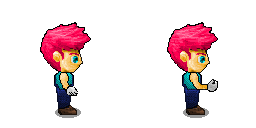
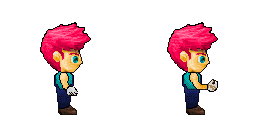
assets: pipeline de re-paleta + bordas (coesão) [1/2]
tools/repalette.mjs (usa o Chromium do playwright como codec PNG, sem deps):
extrai uma paleta compartilhada de todos os sheets e, nos outliers (personagem
+ itens), faz snap pra paleta + endurece a borda (tira o anti-aliasing pintado)
→ aproxima do pixel-art dos cultivos/tiles, sem mudar dimensões nem o atlas.
Remove o fundo "queimado" do item_bag e reduz o logo (3464px → ≤512px).

Cultivos/tiles (o estilo-alvo) ficam intactos. docs/ART_REVIEW.md documenta o
diagnóstico (paleta/dimensão/contraste) e o plano. Assets processados incluídos.

Validado: jogo renderiza sem erro, e2e default e load de assets ok.

diff --git a/docs/ART_REVIEW.md b/docs/ART_REVIEW.md
@@ -1,0 +1,38 @@
+# Revisão de assets — coesão
+
+Diagnóstico (jun/2026) e plano pra deixar a arte coesa em paleta, dimensão e
+contraste.
+
+## Diagnóstico
+Três estilos de renderização conviviam:
+- **Cultivos + tiles** (grama/terra/cerca): pixel art nítido, paleta limitada, ~32px. **É o estilo-alvo.**
+- **Personagem**: sprite suave/anti-aliased (~57–97px), sombra em gradiente — destoa.
+- **Itens** (pá/balde/saco/sementes): cartoon semi-realista, 64–82px — destoa; `item_bag` tinha fundo escuro "queimado" (não transparente).
+- `ui_logo.png` era 3464×3464 (~500 KB).
+
+Eixos do problema: **dimensão** (texel inconsistente por reescala em fatores
+diferentes), **paleta** (sem rampa-mestra; cada asset de um pacote) e
+**contraste** (verde-sobre-verde; fundo do saco).
+
+## Pipeline de re-paleta (`tools/repalette.mjs`)
+Usa o Chromium do playwright só como decodificador/codificador PNG (sem novas deps).
+- Extrai uma **paleta compartilhada** (64 cores) de **todos** os sheets, então
+  as cores próprias do personagem/itens (pele/cabelo/roupa) sobrevivem.
+- Nos **outliers** (personagem + itens): snap pra paleta + **endurecimento de
+  borda** (alpha threshold) → tira o anti-aliasing pintado, aproxima do pixel art.
+- **Cultivos/tiles ficam intactos** (já são o alvo) e **dimensões/atlas não mudam**.
+- Remove o **fundo do `item_bag`** (cor mais comum da borda externa → transparente).
+- **Reduz o logo** pra ≤512px.
+
+Rodar: `node tools/repalette.mjs` (ou `--dry` só pra ver a paleta). É idempotente
+o suficiente; os originais ficam no histórico do git caso queira reverter.
+
+## Pass de coesão no código (render)
+Complementa o pipeline sem nova arte: sombra "grounded" sob cultivos/itens, chão
+base menos saturado, âncora do personagem normalizada, uso do logo reduzido.
+
+## Limite honesto
+Isto **harmoniza** o que existe (paleta + bordas + contraste). A diferença de
+**densidade de texel** (personagem nativo em resolução maior que os cultivos de
+32px) só some de vez com arte redesenhada na mesma grade, ou adotando um pacote
+único — anotado pra quando houver decisão de arte.
